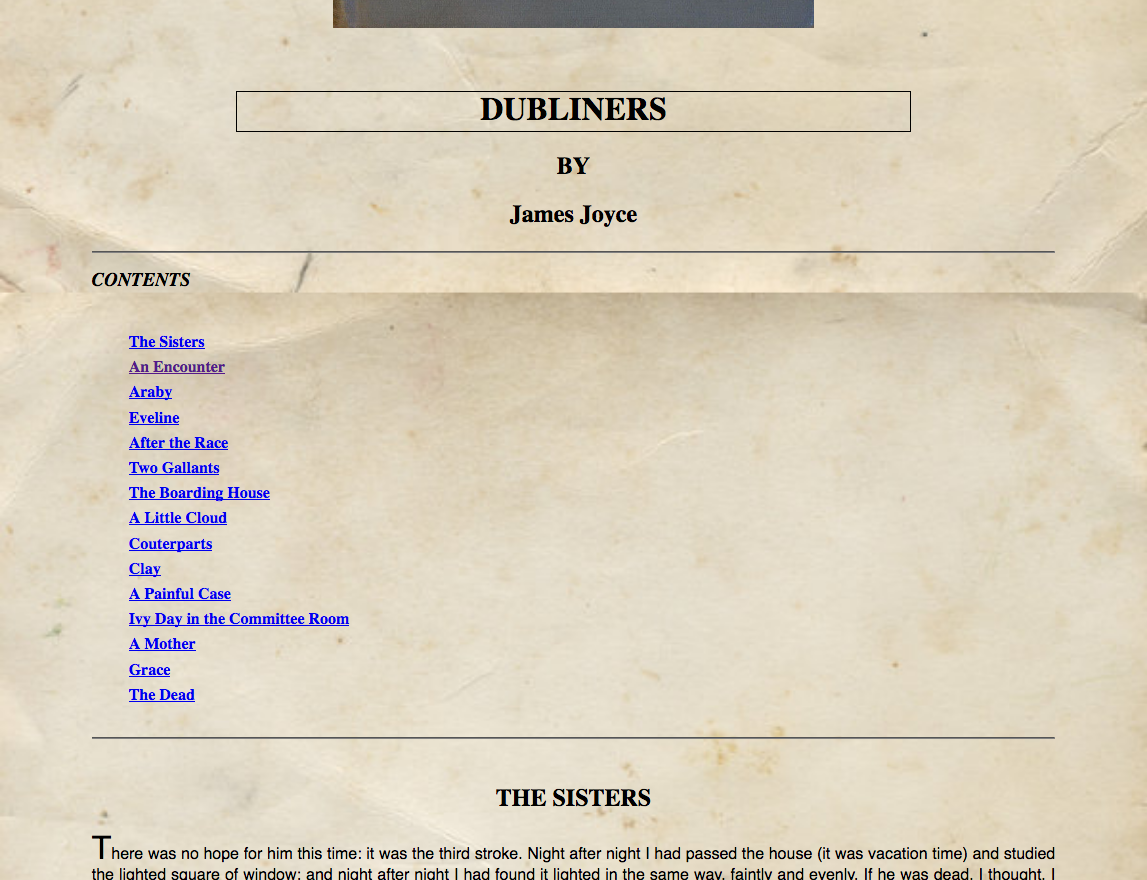
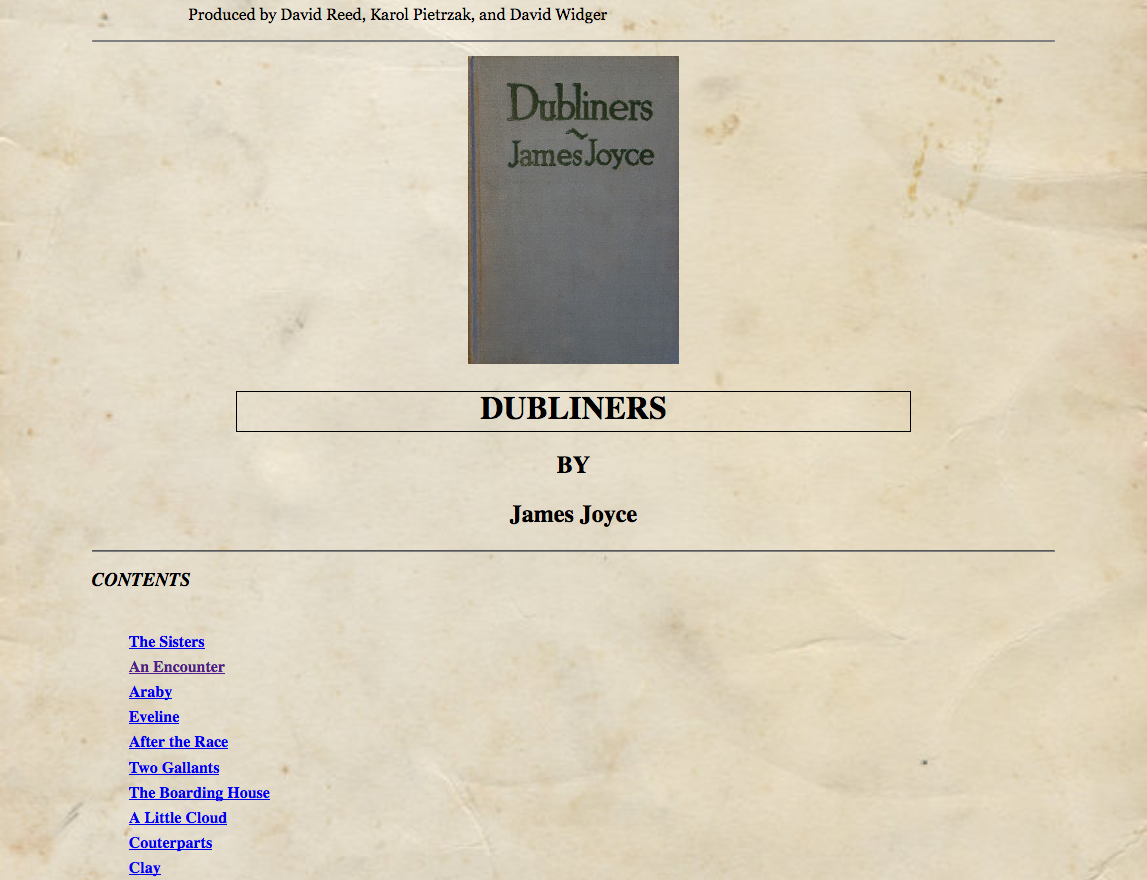
add image css

diff --git a/gutenberg/2.html b/gutenberg/2.html
@@ -1491,7 +1491,7 @@ hard-hearted.&nbsp; <i>You</i> are deceitful!&rdquo;</p>
 <p style="text-align: center">
 <a href="2-img/p30b.jpg">
 <img alt="How dare I, Mrs. Reed?  How dare I?  Because it is the
-truth" src="2-img/p30s.jpg" />
+truth" src="2-img/p30s.jpg" class="illustration"/>
 </a></p>
 <p>Ere I had finished this reply, my soul began to expand, to
 exult, with the strangest sense of freedom, of triumph, I ever
@@ -4936,7 +4936,7 @@ and at last he laughed.</p>
 <p style="text-align: center">
 <a href="2-img/p107b.jpg">
 <img alt="I was mortally afraid of its trampling forefeet"
-src="2-img/p107s.jpg" />
+src="2-img/p107s.jpg" class="illustration"/>
 </a></p>
 <p>&ldquo;I see,&rdquo; he said, &ldquo;the mountain will never
 be brought to Mahomet, so all you can do is to aid Mahomet to go
@@ -6466,7 +6466,7 @@ deluged him with all the water I could lay hands on.</p>
 <p style="text-align: center">
 <a href="2-img/p140b.jpg">
 <img alt="&ldquo;What is it and who did it?&rdquo; he asked"
-src="2-img/p140s.jpg" />
+src="2-img/p140s.jpg" class="illustration"/>
 </a></p>
 <p>He listened very gravely; his face, as I went on, expressed
 more concern than astonishment; he did not immediately speak when
@@ -8446,7 +8446,7 @@ importance to whatever revelations had been made her.</p>
 <p style="text-align: center">
 <a href="2-img/p184b.jpg">
 <img alt="During all that time she never turned a page"
-src="2-img/p184s.jpg" />
+src="2-img/p184s.jpg" class="illustration"/>
 </a></p>
 <p>Meantime, Mary Ingram, Amy and Louisa Eshton, declared they
 dared not go alone; and yet they all wished to go.&nbsp; A
@@ -8734,7 +8734,7 @@ me.&rdquo;</p>
 <p style="text-align: center">
 <a href="2-img/p190b.jpg">
 <img alt="She did not stoop towards me, but only gazed, leaning
-back in her chair" src="2-img/p190s.jpg" />
+back in her chair" src="2-img/p190s.jpg" class="illustration"/>
 </a></p>
 <p>I knelt.&nbsp; She did not stoop towards me, but only gazed,
 leaning back in her chair.&nbsp; She began muttering,&mdash;</p>
@@ -12516,7 +12516,7 @@ them.&rdquo;</p>
 <a href="2-img/p272b.jpg">
 <img alt="It removed my veil from its gaunt head, rent it in two
 parts, and flinging both on the floor, trampled on them"
-src="2-img/p272s.jpg" />
+src="2-img/p272s.jpg" class="illustration"/>
 </a></p>
 <p>&ldquo;Afterwards?&rdquo;</p>
 <p>&ldquo;It drew aside the window-curtain and looked out;
@@ -14296,7 +14296,7 @@ satisfied, appeased by this hermit&rsquo;s meal.&nbsp; I said my
 evening prayers at its conclusion, and then chose my couch.</p>
 <p style="text-align: center">
 <a href="2-img/p311b.jpg">
-<img alt="I said my evening prayers" src="2-img/p311s.jpg" />
+<img alt="I said my evening prayers" src="2-img/p311s.jpg" class="illustration"/>
 </a></p>
 <p>Beside the crag the heath was very deep: when I lay down my
 feet were buried in it; rising high on each side, it left only a
@@ -14554,7 +14554,7 @@ trough.&nbsp; &ldquo;Will you give me that?&rdquo; I asked.</p>
 <p style="text-align: center">
 <a href="2-img/p316b.jpg">
 <img alt="&ldquo;Will you give me that?&rdquo;  I asked"
-src="2-img/p316s.jpg" />
+src="2-img/p316s.jpg" class="illustration"/>
 </a></p>
 <p>She stared at me.&nbsp; &ldquo;Mother!&rdquo; she exclaimed,
 &ldquo;there is a woman wants me to give her these
@@ -14877,7 +14877,7 @@ me into the house.&rdquo;</p>
 <p style="text-align: center">
 <a href="2-img/p323b.jpg">
 <img alt="Hush, Hannah; I have a word to say to the woman"
-src="2-img/p323s.jpg" />
+src="2-img/p323s.jpg" class="illustration"/>
 </a></p>
 <p>With difficulty I obeyed him.&nbsp; Presently I stood within
 that clean, bright kitchen&mdash;on the very
@@ -17029,7 +17029,7 @@ off.&rdquo;</p>
 <p style="text-align: center">
 <a href="2-img/p369b.jpg">
 <img alt="And I am a hard woman,&mdash;impossible to put off"
-src="2-img/p369s.jpg" />
+src="2-img/p369s.jpg" class="illustration"/>
 </a></p>
 <p>&ldquo;And then,&rdquo; he pursued, &ldquo;I am cold: no
 fervour infects me.&rdquo;</p>
@@ -17952,7 +17952,7 @@ swell of heath, and there lay still.</p>
 <p style="text-align: center">
 <a href="2-img/p389b.jpg">
 <img alt="He threw himself down on a swell of heath, and there
-lay still" src="2-img/p389s.jpg" />
+lay still" src="2-img/p389s.jpg" class="illustration"/>
 </a></p>
 <p>&ldquo;I <i>can</i> do what he wants me to do: I am forced to
 see and acknowledge that,&rdquo; I meditated,&mdash;&ldquo;that
@@ -19064,7 +19064,7 @@ she lay smashed on the pavement.&rdquo;</p>
 <p style="text-align: center">
 <a href="2-img/p413b.jpg">
 <img alt="The next minute she lay smashed on the pavement"
-src="2-img/p413s.jpg" />
+src="2-img/p413s.jpg" class="illustration"/>
 </a></p>
 <p>&ldquo;Dead?&rdquo;</p>
 <p>&ldquo;Dead!&nbsp; Ay, dead as the stones on which her brains
@@ -19471,7 +19471,7 @@ certain of that?&rdquo;</p>
 <p style="text-align: center">
 <a href="2-img/p422b.jpg">
 <img alt="You are altogether a human being, Jane?  You are
-certain of that?" src="2-img/p422s.jpg" />
+certain of that?" src="2-img/p422s.jpg" class="illustration"/>
 </a></p>
 <p>&ldquo;I conscientiously believe so, Mr. Rochester.&rdquo;</p>
 <p>&ldquo;Yet how, on this dark and doleful evening, could you so
@@ -20116,7 +20116,7 @@ neck?&rdquo;</p>
 <p style="text-align: center">
 <a href="2-img/p435b.jpg">
 <img alt="And have you a pale blue dress on?"
-src="2-img/p435s.jpg" />
+src="2-img/p435s.jpg" class="illustration"/>
 </a></p>
 <p>I had.&nbsp; He informed me then, that for some time he had
 fancied the obscurity clouding one eye was becoming less dense;

diff --git a/gutenberg/3.html b/gutenberg/3.html
@@ -38,12 +38,9 @@ Produced by David Reed, Karol Pietrzak, and David Widger
 </pre>
 
 <hr size="3" noshade>
-
-<div class="fig" style="width:50%; heigt:10%;">
-<img src="3-img/cover.jpg" style="width:100%;" alt="cover " /><br /><br />
+<div style="height:20rem;display: flex;align-items: center;justify-content: center;">
+    <img src="3-img/cover.jpg" alt="cover " class="cover"/>
 </div>
-
-<p><br/></p>
 
 <h1>DUBLINERS</h1>
 <h2>BY</h2>

diff --git a/gutenberg/gutenberg.css b/gutenberg/gutenberg.css
@@ -144,7 +144,23 @@ hr.small1 {
 div.fig { 
     display:block;
     margin:0 auto;
-    text-align:center; }
+    text-align:center; 
+}
+
+img.cover {
+    padding-bottom: 0em;
+    padding-top: 0em;
+    transform: scale(0.3);
+    align-items: center
+}
+
+img.illustration{
+    margin-top: 2em;
+    margin-bottom: 2em;
+    border-radius: 25px;
+    width: 30%;
+    height: auto;
+}
 
 
 
